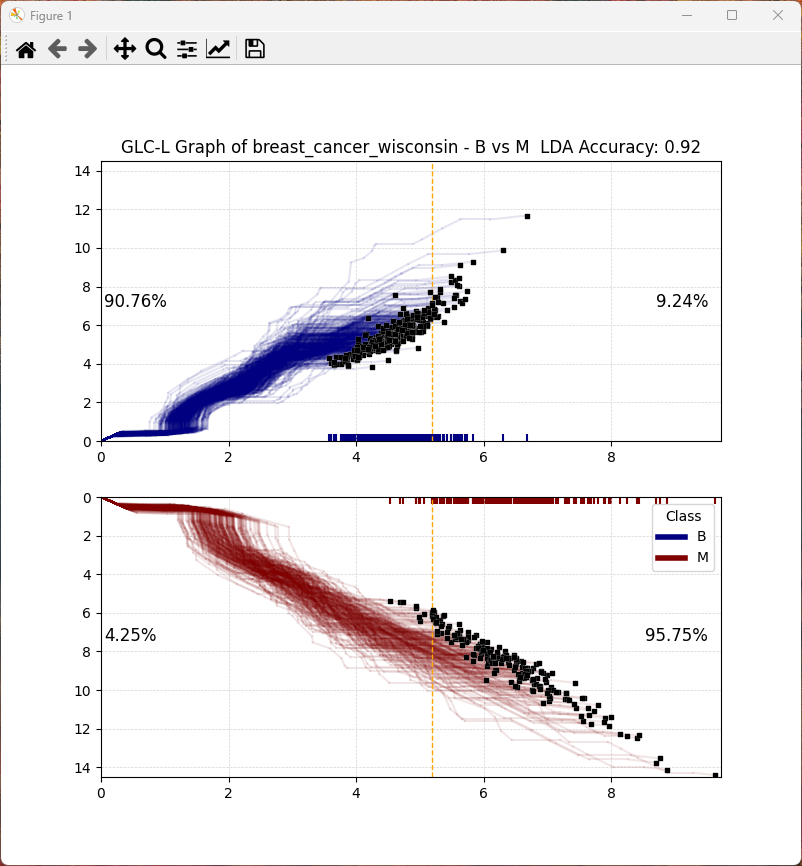
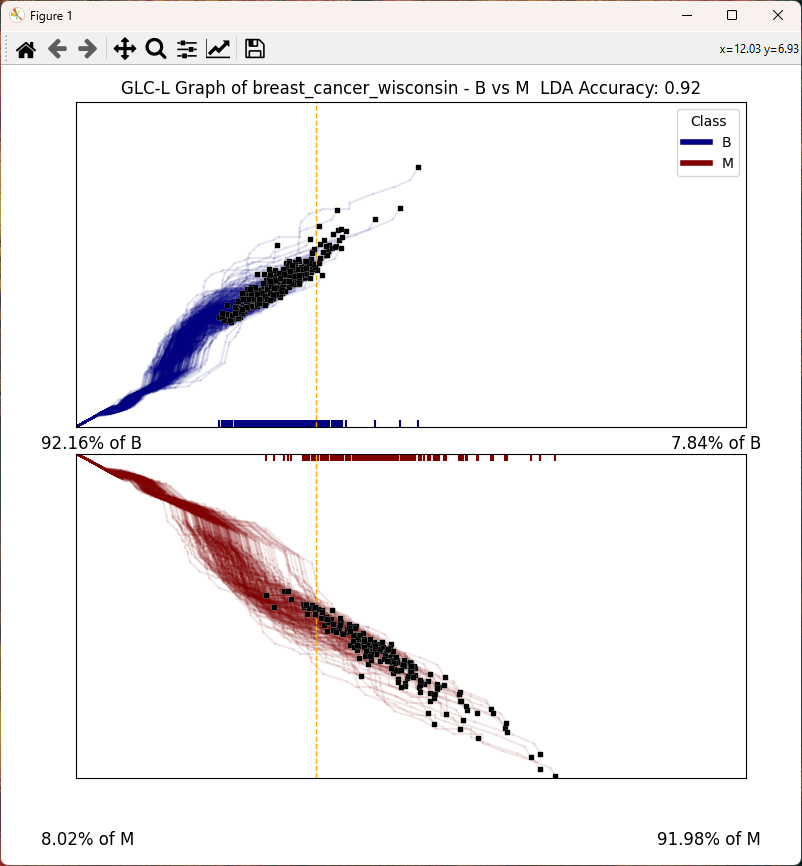
GLC-L remove axes ticks, compact view

diff --git a/glc_line_plotter.py b/glc_line_plotter.py
@@ -21,7 +21,7 @@ def compute_angles(coefficients):
     angles = np.arccos(np.abs(transformed_coefficients))
     return angles
 
-def coefficients_search(df, feature_columns, label_column, epochs=100):
+def coefficients_search(df, feature_columns, label_column, epochs=10):
     best_coefficients = []
     best_accuracy = 0
     
@@ -133,8 +133,7 @@ def plot_glyphs(df, dataset_name, coefficients=None, accuracy=None):
     X = df[feature_columns].values
     y = df[label_column].values
     lda_model.fit(X, y)
-    
-    plt.figure(figsize=(8, 8))
+    plt.figure(figsize=(8, 8), constrained_layout=True)
     
     max_x_value = 0
     max_y_value = 0
@@ -152,11 +151,13 @@ def plot_glyphs(df, dataset_name, coefficients=None, accuracy=None):
             max_x_value = max(max_x_value, x_i)
             max_y_value = max(max_y_value, y_i)
     
+    max_max = max(max_x_value, max_y_value)
+    
     midpoint_x, midpoint_y = find_lda_separation_line(df, lda_model, feature_columns, label_column, angles)
     percentages = calculate_endpoint_percentages(df, lda_model, feature_columns, label_column, angles, midpoint_x)
     half_y_value = max_y_value / 2
     plt.subplot(2, 1, 1)
-    plt.grid(color='lightgray', linestyle='--', linewidth=0.5)
+    #plt.grid(color='lightgray', linestyle='--', linewidth=0.5)
     custom_lines = [plt.Line2D([0], [0], color=color, lw=4) for color in label_to_color.values()]
     plt.legend(custom_lines, unique_labels, title='Class')
     first_class = unique_labels[0]
@@ -176,21 +177,23 @@ def plot_glyphs(df, dataset_name, coefficients=None, accuracy=None):
 
     first_class = unique_labels[0]
     left_percentage, right_percentage = percentages[first_class]
-    plt.text(0.05, half_y_value, f"{left_percentage:.2f}%", fontsize=12, ha="left", va="center")
-    plt.text(max_x_value - 0.1, half_y_value, f"{right_percentage:.2f}%", fontsize=12, ha="right", va="center")
+    plt.xticks([])  # Remove x-axis numbering
+    plt.yticks([])  # Remove y-axis numbering
+    plt.text(0.05, 0.52, f"{left_percentage:.2f}% of {first_class}", fontsize=12, transform=plt.gcf().transFigure)
+    plt.text(0.95, 0.52, f"{right_percentage:.2f}% of {first_class}", fontsize=12, ha="right", transform=plt.gcf().transFigure)
 
     plot_lda_separation_line(midpoint_x, midpoint_y)
-    plt.xlim(0, max_x_value + 0.1)
-    plt.ylim(0, max_y_value + 0.1)
+    plt.xlim(0, max_max + 0.1)
+    plt.ylim(0, max_max + 0.1)
 
     classes = ', '.join(map(str, unique_labels[1:]))
     plt.title(f'GLC-L Graph of {dataset_name} - {first_class} vs {classes}  LDA Accuracy: {accuracy:.2f}')
     
     plt.subplot(2, 1, 2)
-    plt.grid(color='lightgray', linestyle='--', linewidth=0.5)
+    #plt.grid(color='lightgray', linestyle='--', linewidth=0.5)
 
     for idx, other_class in enumerate(unique_labels[1:]):
-        y_increment = 0.25 * (max_y_value / (len(unique_labels) - 1))
+        y_increment = 0.025 * (max_y_value / (len(unique_labels) - 1))
         for index, row in df[df[label_column] == other_class].iterrows():
             x_prev, y_prev = 0, 0
             for i, feature in enumerate(feature_columns):
@@ -205,15 +208,16 @@ def plot_glyphs(df, dataset_name, coefficients=None, accuracy=None):
             plt.scatter(x_i, y_i, marker='s', color='black', s=8, zorder=3)
         left_percentage, right_percentage = percentages[other_class]
         y_position = idx * y_increment
-        plt.text(0.05, midpoint_y / 2 + y_position, f"{left_percentage:.2f}%", fontsize=12, ha="left", va="center")
-        plt.text(max_x_value - 0.1, midpoint_y / 2 + y_position, f"{right_percentage:.2f}%", fontsize=12, ha="right", va="center")
-        
+        plt.text(0.05, 0.025 + y_position, f"{left_percentage:.2f}% of {other_class}", fontsize=12, transform=plt.gcf().transFigure)
+        plt.text(0.95, 0.025 + y_position, f"{right_percentage:.2f}% of {other_class}", fontsize=12, ha="right", transform=plt.gcf().transFigure)
+    plt.xticks([])  # Remove x-axis numbering
+    plt.yticks([])  # Remove y-axis numbering  
     # Find the midpoint for the LDA separation line and plot it
     midpoint_x, midpoint_y = find_lda_separation_line(df, lda_model, feature_columns, label_column, angles)
     plot_lda_separation_line(midpoint_x, midpoint_y)
 
-    plt.xlim(0, max_x_value + 0.1)
-    plt.ylim(0, max_y_value + 0.1)
+    plt.xlim(0, max_max + 0.1)
+    plt.ylim(0, max_max + 0.1)
     plt.gca().invert_yaxis()
     
     def close(event):
@@ -221,6 +225,8 @@ def plot_glyphs(df, dataset_name, coefficients=None, accuracy=None):
             plt.close(event.canvas.figure)
             
     plt.connect('key_press_event', close)
+    
+    plt.tight_layout()
     plt.show()
 
 if __name__ == "__main__":
